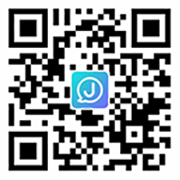
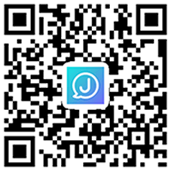
增加jchat下载板块

diff --git a/zh/jmessage/resources.md b/zh/jmessage/resources.md
@@ -53,36 +53,51 @@
     </div>
 </div>
 
-##  DEMO 下载体验
-<div class="row server downloads">
-    <div class="form-group">
-        <div class="col-md-4">
-            <img src="../image/jchat.png" alt="JChat">
-            <h4 class="col-sm-offset-5">扫码下载</h4>
+
+## DEMO 下载体验
+
+<div class="row server downloads j-chat-demo" style="margin: 0">
+    <div class="box">
+        <div class="col-md-4 item">
+            <img src="../image/jchat.png" alt="JChat" style="margin-bottom: 0; border:none;margin-top: -1px;">
+            <p style="margin-left: 60px; margin-top: -5px;">扫码下载</p>
         </div>
-        <div class="col-md-8">
-            <div class="caption">
-                <h4>即时通讯场景应用 JChat</h4>
-                <p>JChat集成极光 IM SDK, 演示即时通讯场景。</p>
-                <ul>
-                    <li>支持单聊、群聊</li>
-                    <li class="li-clear">可发送文字、图片、语音、表情、文件、地理位置等消息</li>
-                </ul>
+    </div>
+    <div class="col-md-8">
+        <h4>即时通讯场景应用 JChat</h4>
+        <p>JChat集成极光 IM SDK, 演示即时通讯场景。</p>
+        <ul style="margin-left:-21px; margin-bottom: 20px;">
+            <li>支持单聊、群聊</li>
+            <li>可发送文字、图片、语音、表情、文件、地理位置等消息</li>
+        </ul>
+        <div class="row box">
+            <div class="col-xs-5">
+                <div class="row item">
+                    <div class="col-md-12">
+                        <a href="https://sdkfiledl.jiguang.cn/jchat_v2.0.0.apk" class="btn btn-default" role="button">Android 下载</a>
+                    </div>
+                    <div class="col-md-12 download-text">
+                        <a href="https://github.com/jpush/jchat-android" target="_blank" style="margin-left:25px;">JChat 源码</a>
+                    </div>
+                </div>
             </div>
-            <div class="col-md-4">
-                <p><a href="https://sdkfiledl.jiguang.cn/jchat_v2.0.0.apk" class="btn btn-default" role="button">Android下载</a></p>
-                <p><a href="https://github.com/jpush/jchat-android" target="_blank">JChat 源码</font></p>
-            </div>
-            <div class="col-md-4">
-                <p><a href="https://sdkfiledl.jiguang.cn/JChat_v3.0.0.ipa" class="btn btn-default" role="button">IOS下载</a></p>
-                <p><a  href="https://github.com/jpush/jchat-swift" target="_blank">JChat 源码</a></p>
+            <div class="col-xs-5">
+                <div class="row item">
+                    <div class="col-md-12" >
+                        <a href="https://sdkfiledl.jiguang.cn/JChat_v3.0.0.ipa" class="btn btn-default" role="button">iOS 下载</a>
+                    </div>
+                    <div class="col-md-12 download-text">
+                        <a href="https://github.com/jpush/jchat-swift" target="_blank" style="margin-left: 10px;">JChat 源码</a>
+                    </div>
+                </div>
             </div>
         </div>
     </div>
 </div>
 
 
-##  服务器端 SDK 下载
+## 服务器端 SDK 下载
+
 <div class="row server downloads">
     <div class="col-md-6">
         <div class="thumbnail">
